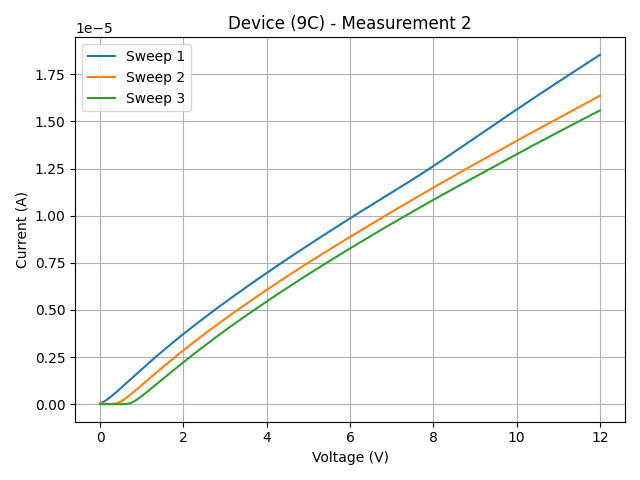
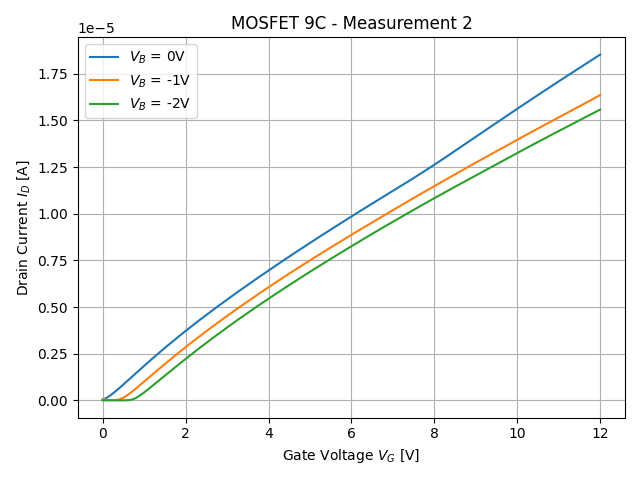
misc updates

diff --git a/mosfets.py b/mosfets.py
@@ -7,8 +7,12 @@ import re
 
 data_files = glob.glob("data/MOSFET*.csv")
 
+# for labels - ordered in secondary "sweep" step direction
+meas1_gate_voltages = [0, 1, 2, 3, 4, 5]
+meas2_bias_voltages = [0, -1, -2]
 
-def plot_iv_curves(voltage, current, threshold=0.1):
+
+def plot_iv_curves(voltage, current, plot_title, threshold=0.1, log_scale=False):
     traces_v = []
     traces_i = []
     curr_v_trace = []
@@ -37,12 +41,23 @@ def plot_iv_curves(voltage, current, threshold=0.1):
     # plot each trace separately
     plt.figure()
     for idx, (v, i) in enumerate(zip(traces_v, traces_i)):
-        plt.plot(v, i, "-", label=f"Sweep {idx+1}")
+        # (select based on measurement number)
+        if meas_num == "1":
+            label = f"$V_G$ = {meas1_gate_voltages[idx]}V"
+            xlabel = "Drain Voltage $V_D$ [V]"
+            ylabel = "Drain Current $I_D$ [A]"
+        else:
+            label = f"$V_B$ = {meas2_bias_voltages[idx]}V"
+            xlabel = "Gate Voltage $V_G$ [V]"
+            ylabel = "Drain Current $I_D$ [A]"
+            if log_scale:
+                plt.yscale("log")
+        plt.plot(v, i, "-", label=label)
 
-    plt.xlabel("Voltage (V)")
-    plt.ylabel("Current (A)")
+    plt.xlabel(xlabel)
+    plt.ylabel(ylabel)
     plt.grid(True)
-    plt.title(f"Device ({section}) - Measurement {meas_num}")
+    plt.title(plot_title + (" (log scale)" if log_scale else ""))
     plt.legend()
     plt.tight_layout()
 
@@ -57,7 +72,7 @@ for file in data_files:
         section = match.group(2)
         meas_num = match.group(3)
         plot_filename = f"figures/{section}-meas{meas_num}.png"
-        plot_title = f"Device ({section}) - Measurement {meas_num}"
+        plot_title = f"MOSFET {section} - Measurement {meas_num}"
     else:
         print(f"Could not parse filename pattern: {filename}")
         continue
@@ -80,10 +95,22 @@ for file in data_files:
         if data_values:
             df = pd.DataFrame(data_values, columns=["Voltage", "Current"])
 
-            plot_iv_curves(df["Voltage"].values, df["Current"].values)
+            plot_iv_curves(df["Voltage"].values, df["Current"].values, plot_title)
             plt.savefig(plot_filename)
             plt.close()
             print(f"Saved plot as: {plot_filename}")
+
+            if meas_num == "2":
+                plot_iv_curves(
+                    df["Voltage"].values,
+                    df["Current"].values,
+                    plot_title,
+                    log_scale=True,
+                )
+                log_filename = plot_filename.replace(".png", "-logscale.png")
+                plt.savefig(log_filename)
+                plt.close()
+                print(f"Saved log scale plot as: {log_filename}")
 
         else:
             print(f"No valid data found in {file}")

diff --git a/inverter.py b/inverter.py
@@ -5,8 +5,10 @@ import matplotlib.pyplot as plt
 
 filename = "data/MOSFET MEAS2 [(9) _14_; 4_8_2025 11_37_24 AM].csv"
 
+drain_voltages = [5, 10, 15]
 
-def plot_inverter_curves(voltage, output, threshold=0.1):
+
+def plot_inverter_curves(voltage, output, threshold=2.0):
     traces_v = []
     traces_out = []
     curr_v_trace = []
@@ -16,8 +18,13 @@ def plot_inverter_curves(voltage, output, threshold=0.1):
     curr_out_trace.append(output[0])
 
     for i in range(1, len(voltage)):
-        if abs(voltage[i] + 5) < threshold:  # detect reset to -5V
+        # Detect when voltage jumps backwards significantly
+        if voltage[i] < voltage[i - 1] - threshold:
             if curr_v_trace:  # save current trace if it exists
+                # DEBUG
+                print(
+                    f"split @ index {i}, voltage jump: {voltage[i-1]} -> {voltage[i]}"
+                )
                 traces_v.append(curr_v_trace)
                 traces_out.append(curr_out_trace)
                 curr_v_trace = []
@@ -32,12 +39,11 @@ def plot_inverter_curves(voltage, output, threshold=0.1):
 
     plt.figure(figsize=(10, 5))
     for idx, (v, out) in enumerate(zip(traces_v, traces_out)):
-        # Get approximate vdd from max output voltage
-        vdd = max(out)
-        plt.plot(v, out, "-", label=f"VDD ≈ {vdd:.1f}V")
+        label = f"$V_D$ = {drain_voltages[idx]}V"
+        plt.plot(v, out, "-", label=label)
 
-    plt.xlabel("Input Voltage (V)")
-    plt.ylabel("Output Voltage (V)")
+    plt.xlabel("Input Voltage $V$ [V]")
+    plt.ylabel("Output Voltage $V$ [V]")
     plt.grid(True)
     plt.title("Inverter Transfer Characteristic - Device 14")
     plt.legend()

diff --git a/resistors-contactchain.py b/resistors-contactchain.py
@@ -2,11 +2,14 @@
 
 import pandas as pd
 import matplotlib.pyplot as plt
+from numpy import polyfit
 
 filenames = [
     "data/I_V Sweep [(8) 2C light off; 4_1_2025 10_40_23 AM].csv",
     "data/I_V Sweep [(10) 2D light off; 4_1_2025 10_41_37 AM].csv",
 ]
+
+device_resistances = {}
 
 for file in filenames:
     device = "2C" if "2C" in file else "2D"
@@ -26,12 +29,13 @@ for file in filenames:
 
     df = pd.DataFrame(data_values, columns=["Voltage", "Current"])
 
-    resistance = abs(df["Current"].iloc[-1] - df["Current"].iloc[0]) / abs(
-        df["Voltage"].iloc[-1] - df["Voltage"].iloc[0]
-    )
+    # R = V/I = 1/(I/V)
+    slope, _ = polyfit(df["Voltage"], df["Current"], 1)
+    resistance = 1 / slope
+    device_resistances[device] = resistance
 
     plt.figure(figsize=(10, 5))
-    plt.plot(df["Voltage"], df["Current"], "-", label=f"R = {resistance:.2f} Ω")
+    plt.plot(df["Voltage"], df["Current"], "-", label=f"IV Sweep")
     plt.xlabel("Voltage (V)")
     plt.ylabel("Current (A)")
     plt.grid(True)
@@ -41,3 +45,7 @@ for file in filenames:
 
     plt.savefig(f"figures/{device.upper()}-contactchain-IV.png")
     plt.close()
+
+with open("calcs/resistors-contactchain.txt", "w") as f:
+    for device, resistance in device_resistances.items():
+        f.write(f"Device {device}: {resistance:.2f} Ω\n")

diff --git a/resistors-4point.py b/resistors-4point.py
@@ -1,5 +1,6 @@
 # devices 2A, 2B
 
+from numpy import polyfit
 import pandas as pd
 import matplotlib.pyplot as plt
 
@@ -26,14 +27,14 @@ for file in filenames:
 
     df = pd.DataFrame(data_values, columns=["Current", "Voltage"])
 
-    resistance = abs(df["Voltage"].iloc[-1] - df["Voltage"].iloc[0]) / abs(
-        df["Current"].iloc[-1] - df["Current"].iloc[0]
-    )
+    # R = V/I = 1/(I/V)
+    slope, _ = polyfit(df["Voltage"], df["Current"], 1)
+    resistance = 1 / slope
 
     plt.figure(figsize=(10, 5))
-    plt.plot(df["Current"], df["Voltage"], "-", label=f"R = {resistance:.2f} Ω")
-    plt.xlabel("Current (A)")
-    plt.ylabel("Voltage (V)")
+    plt.plot(df["Current"], df["Voltage"], "-", label=f"IV Sweep")
+    plt.xlabel("Current $I$ [A]")
+    plt.ylabel("Voltage $V$ [V]")
     plt.grid(True)
     plt.title(f"4-Point Resistor Measurement - Device {device}")
     plt.legend()
